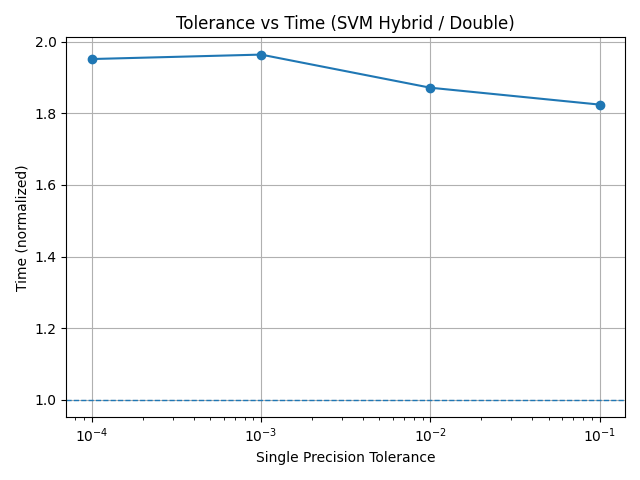
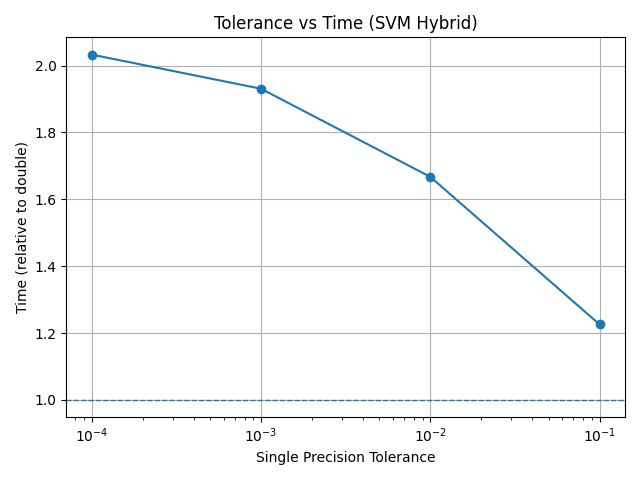
test: expA and expB

diff --git a/datasets/utils.py b/datasets/utils.py
@@ -29,9 +29,10 @@ def load_susy(n_rows=1_000_000):
 
 synth_specs = [
     # number of samples; number of features, number of clusters, random seeds
-    ("SYNTH_C_5_F_5_n100k", 500_000, 5,  5, 0),
+    # ("SYNTH_C_5_F_5_n100k", 500_000, 5,  5, 0),
     # ("SYNTH_C_80_F_5_n100k", 10000_00, 5, 80, 1),
-    # ("SYNTH_C_30_F_5_n100k", 10000_00, 5, 30, 1)
+    # ("SYNTH_C_30_F_5_n100k", 10000_00, 5, 40, 1),
+    ("SYNTH_C_5_F_50_n100k", 10000_00, 100, 5, 1),
 ]
 
 # Real-dataset

diff --git a/SVM_main.py b/SVM_main.py
@@ -24,7 +24,7 @@ def print_summary(path, group_by):
     print(summary)
 
 def run_experiments():
-    results_A, results_B  = [], []
+    results_A, results_B  = [], [] 
     config = {
         "n_repeats": 1,
 
